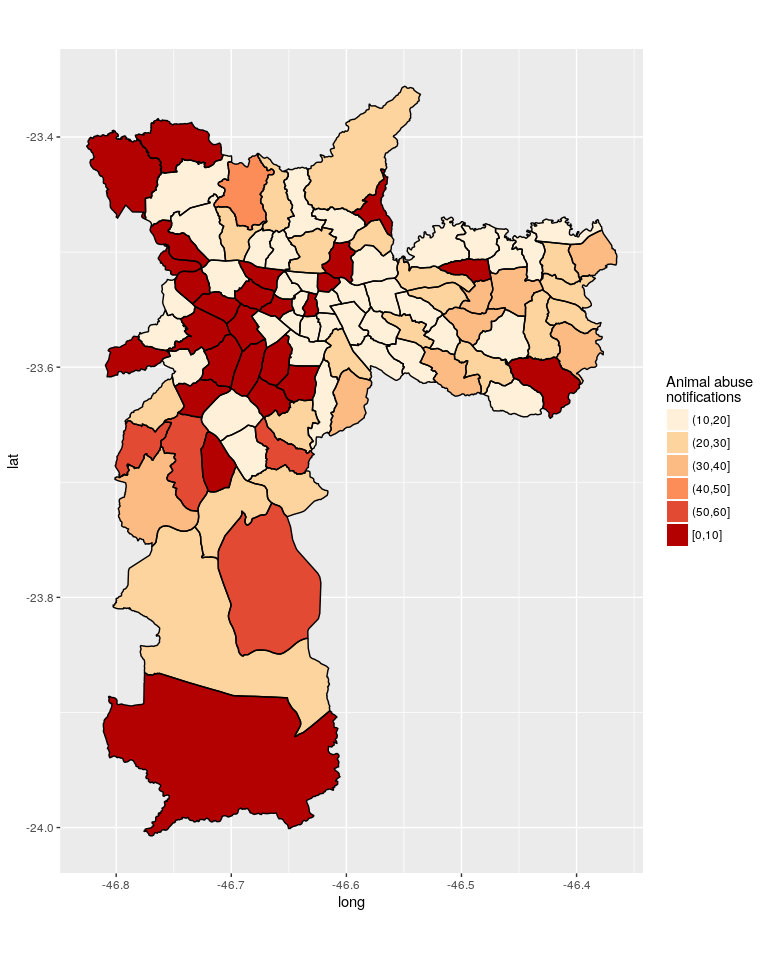
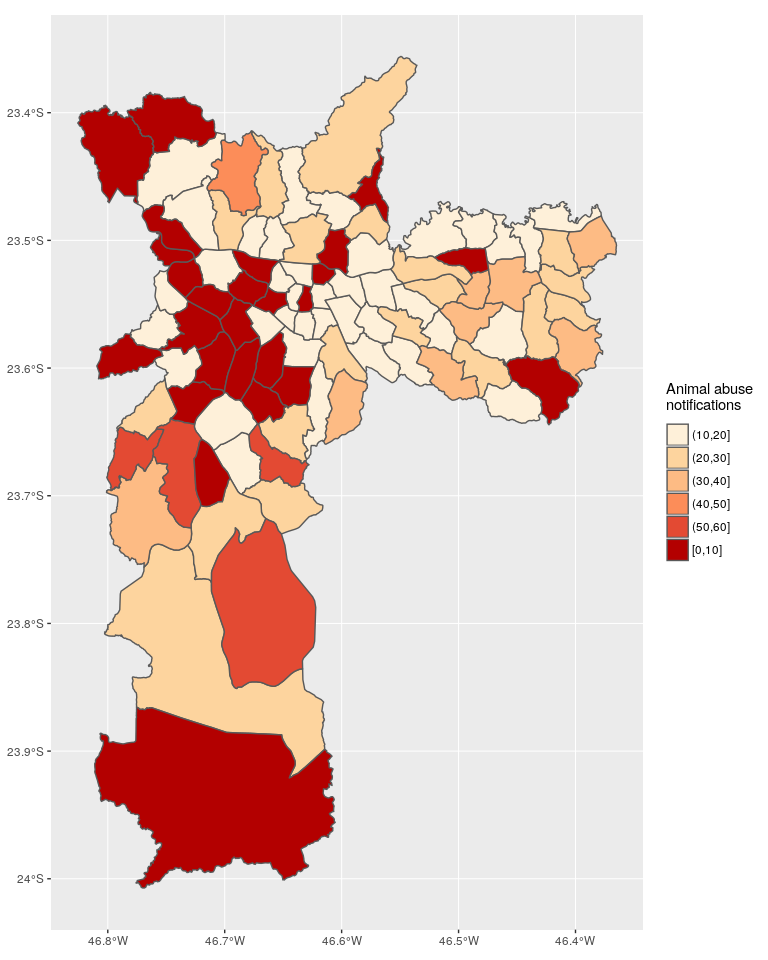
Update

diff --git a/README.md b/README.md
@@ -16,30 +16,24 @@ devtools::install_github('oswaldosantos/ggsn')
 Examples
 --------
 
-Read a shapefile and prepare it to plot:
+Read a shapefile:
 
 ``` r
-library(ggsn); library(ggmap); library(rgdal); library(broom)
-shape.directory <- system.file('extdata', package = 'ggsn')
+library(ggsn); library(sf)
+dsn <- system.file('extdata', package = 'ggsn')
 
 # Map in geographic coordinates
-map <- readOGR(shape.directory, 'sp', verbose = FALSE)
-map@data$id <- 0:(nrow(map@data) - 1)
-map.df <- merge(tidy(map), map, by = 'id')
+map <- st_read(dsn, 'sp', quiet = TRUE)
 
 # Map in projected coordinates
-map2 <- spTransform(map, CRS("+init=epsg:31983"))
-map2@data$id <- 0:(nrow(map@data) - 1)
-map2.df <- merge(tidy(map2), map2, by = 'id')
+map2 <- st_transform(map, 31983)
 ```
 
 **ggplot** map:
 
 ``` r
-(ggm1 <- ggplot(data = map.df, aes(long, lat, group = group, fill = nots)) +
-    geom_polygon() +
-    coord_equal() +
-    geom_path() +
+(ggm1 <- ggplot(map, aes(fill = nots)) +
+    geom_sf() +
     scale_fill_brewer(name = 'Animal abuse\nnotifications', palette = 8))
 ```
 
@@ -50,8 +44,8 @@ Now, let's use the **ggsn** package to add a blank background, a north symbol an
 ``` r
 ggm1 +
     blank() +
-    north(map.df) +
-    scalebar(map.df, dist = 5, dd2km = TRUE, model = 'WGS84')
+    north(map) +
+    scalebar(map, dist = 5, dd2km = TRUE, model = 'WGS84')
 ```
 
 ![](figure/unnamed-chunk-4-1.png)
@@ -60,20 +54,18 @@ The scale bar works with maps in geographic and meter coordinates:
 
 ``` r
 ggm1 +
-    north(map.df) +
-    scalebar(map.df, dist = 5, dd2km = TRUE, model = 'WGS84')
+    north(map) +
+    scalebar(map, dist = 5, dd2km = TRUE, model = 'WGS84')
 ```
 
 ![](figure/unnamed-chunk-5-1.png)
 
 ``` r
-ggplot(data = map2.df, aes(long, lat, group = group, fill = nots)) +
-    geom_polygon() +
-    coord_equal() +
-    geom_path() +
-    north(map2.df, symbol = 16, scale = 0.15) +
+ggplot(map2, aes(fill = nots)) +
+    geom_sf() +
+    north(map2, symbol = 16, scale = 0.15) +
     scale_fill_brewer(name = 'Animal abuse\nnotifications', palette = 8) +
-    scalebar(map2.df, dist = 5) +
+    scalebar(map2, dist = 5) +
     xlab('Meters') +
     ylab('Meters')
 ```
@@ -85,19 +77,24 @@ The packages **ggsn** and **ggmap** can be used together:
 ``` r
 library(ggmap)
 library(sp)
+library(broom)
 sp <- get_googlemap("São Paulo")
-bb <- c(bbox(map) * matrix(rep(c(1.001, 0.999), e = 2), ncol = 2))
+bb <- c(st_bbox(map) * matrix(rep(c(1.001, 0.999), e = 2), ncol = 2))
 nms <- names(attr(sp, "bb"))
 attr(sp, "bb")[1, ] <- bb[c(2, 1, 4, 3)]
 
+map_sp <- as(map, "Spatial")
+map_sp@data$id <- 0:(nrow(map_sp@data) - 1)
+map_sp <- merge(tidy(map_sp), map_sp, by = 'id')
+
 ggmap(sp) +
-    geom_polygon(data = map.df, aes(long, lat, group = group, fill = nots),
+    geom_polygon(data = map_sp, aes(long, lat, group = group, fill = nots),
                  alpha = .7) +
     coord_equal() +
-    geom_path(data = map.df, aes(long, lat, group = group)) +
+    geom_path(data = map_sp, aes(long, lat, group = group)) +
     blank() +
-    scalebar(map.df, dist = 5, dd2km = T, model = 'WGS84') +
-    north(map.df) +
+    scalebar(map_sp, dist = 5, dd2km = T, model = 'WGS84') +
+    north(map) +
     scale_fill_brewer(name = 'Animal abuse\nnotifications', palette = 8) +
     theme(legend.position = c(0.9, 0.35))
 ```
